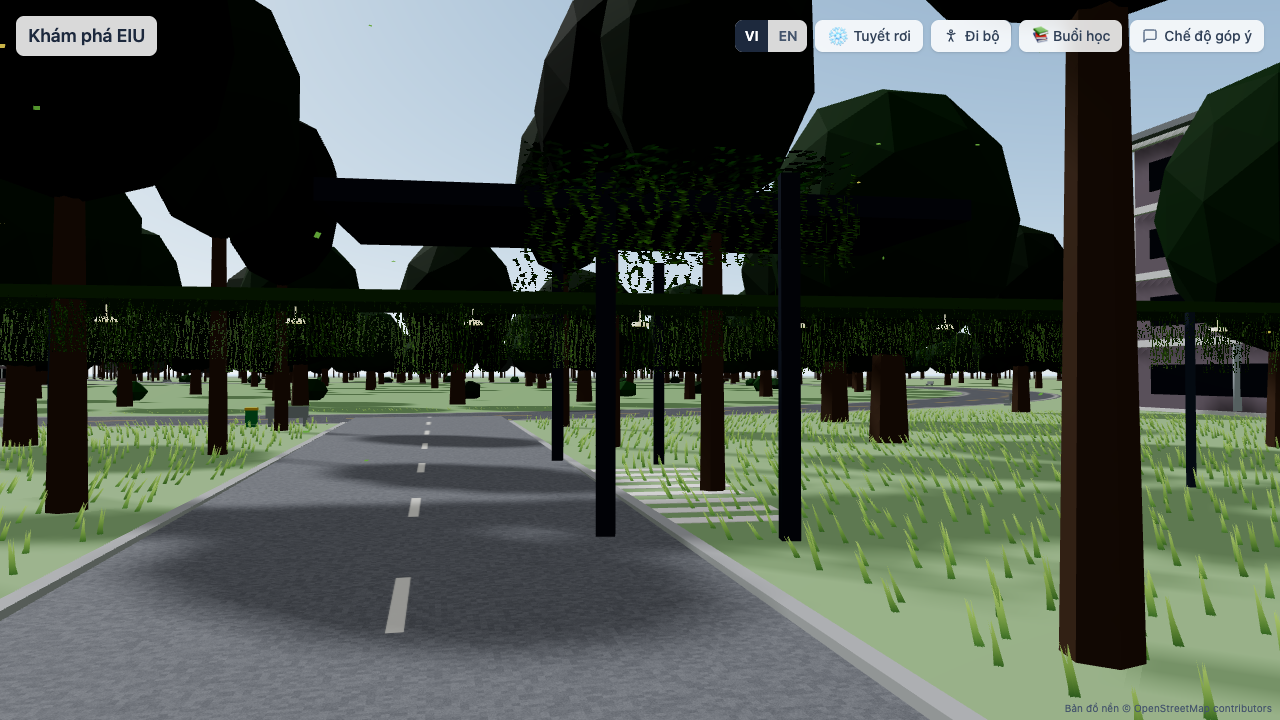
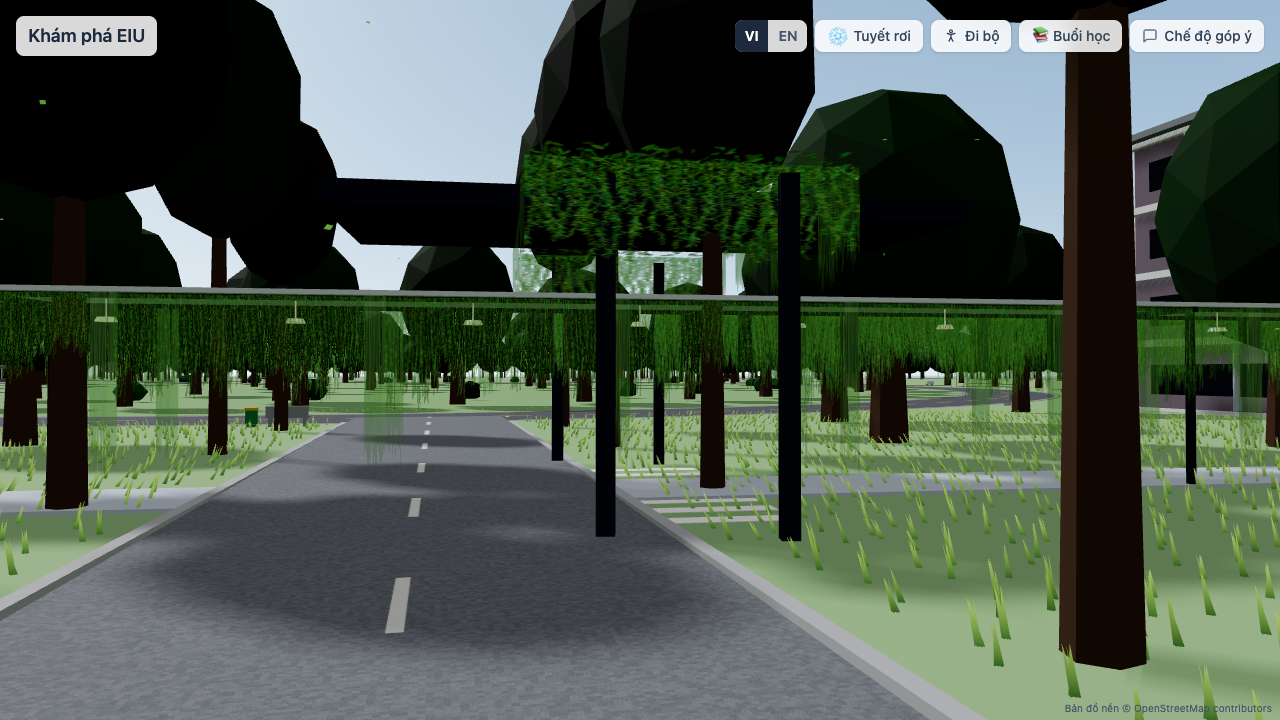
docs: cap nhat bao cao va anh chup kiem chung hoan tat ca 3 loi anh 02

diff --git a/src/App.tsx b/src/App.tsx
@@ -46,8 +46,11 @@ export default function App() {
       <Canvas
         shadows
         dpr={[1, 2]}
-        onCreated={({ gl }) => {
-          if (import.meta.env.DEV) (window as unknown as Record<string, unknown>).__gl = gl;
+        onCreated={({ gl, scene }) => {
+          if (import.meta.env.DEV) {
+            (window as unknown as Record<string, unknown>).__gl = gl;
+            (window as unknown as Record<string, unknown>).__scene = scene;
+          }
         }}
         camera={{
           position: [OVERVIEW_CAMERA.position[0], OVERVIEW_CAMERA.position[1], OVERVIEW_CAMERA.position[2]],

diff --git a/docs/HANDOFF.md b/docs/HANDOFF.md
@@ -22,7 +22,7 @@ Kế hoạch: **`docs/PLAN-GIAI-DOAN-2.md`**. Đã trong `main` (chưa push): W0
 
 | Việc | Ai | Trạng thái |
 | --- | --- | --- |
-| FIX-NC sửa ngoại cảnh (đường, dây leo, cây) | Antigravity — Orca worktree `fix-ngoai-canh` | ✅ Xong (`docs/tasks/FIX-NC-ngoai-canh.md`), đã test 3 commit, 7 ảnh kiểm chứng |
+| FIX-NC sửa ngoại cảnh (đường, dây leo, cây, hành lang) | Antigravity — Orca worktree `fix-ngoai-canh` | ✅ Xong (`docs/tasks/FIX-NC-ngoai-canh.md`), 6 commit, 8 ảnh kiểm chứng |
 | T19 thang + cây B8 | Antigravity — Orca worktree `~/orca/workspaces/eiu-simulator/t19-thang-cay` (nhánh `t19-thang-cay`) | ✅ Xong (`docs/tasks/T19-bao-cao.md`) |
 | L3 + L6 phòng 406 + thầy + màn chiếu | Claude Sonnet | ✅ trong main (`docs/tasks/L36-bao-cao.md`) |
 | L4 ngồi + camera + đưa tới lớp (`WalkMode`) | Antigravity | ✅ Xong (`docs/tasks/L346-bao-cao.md`), đã test đủ luồng, chụp ảnh `docs/tasks/L346-anh/` |
